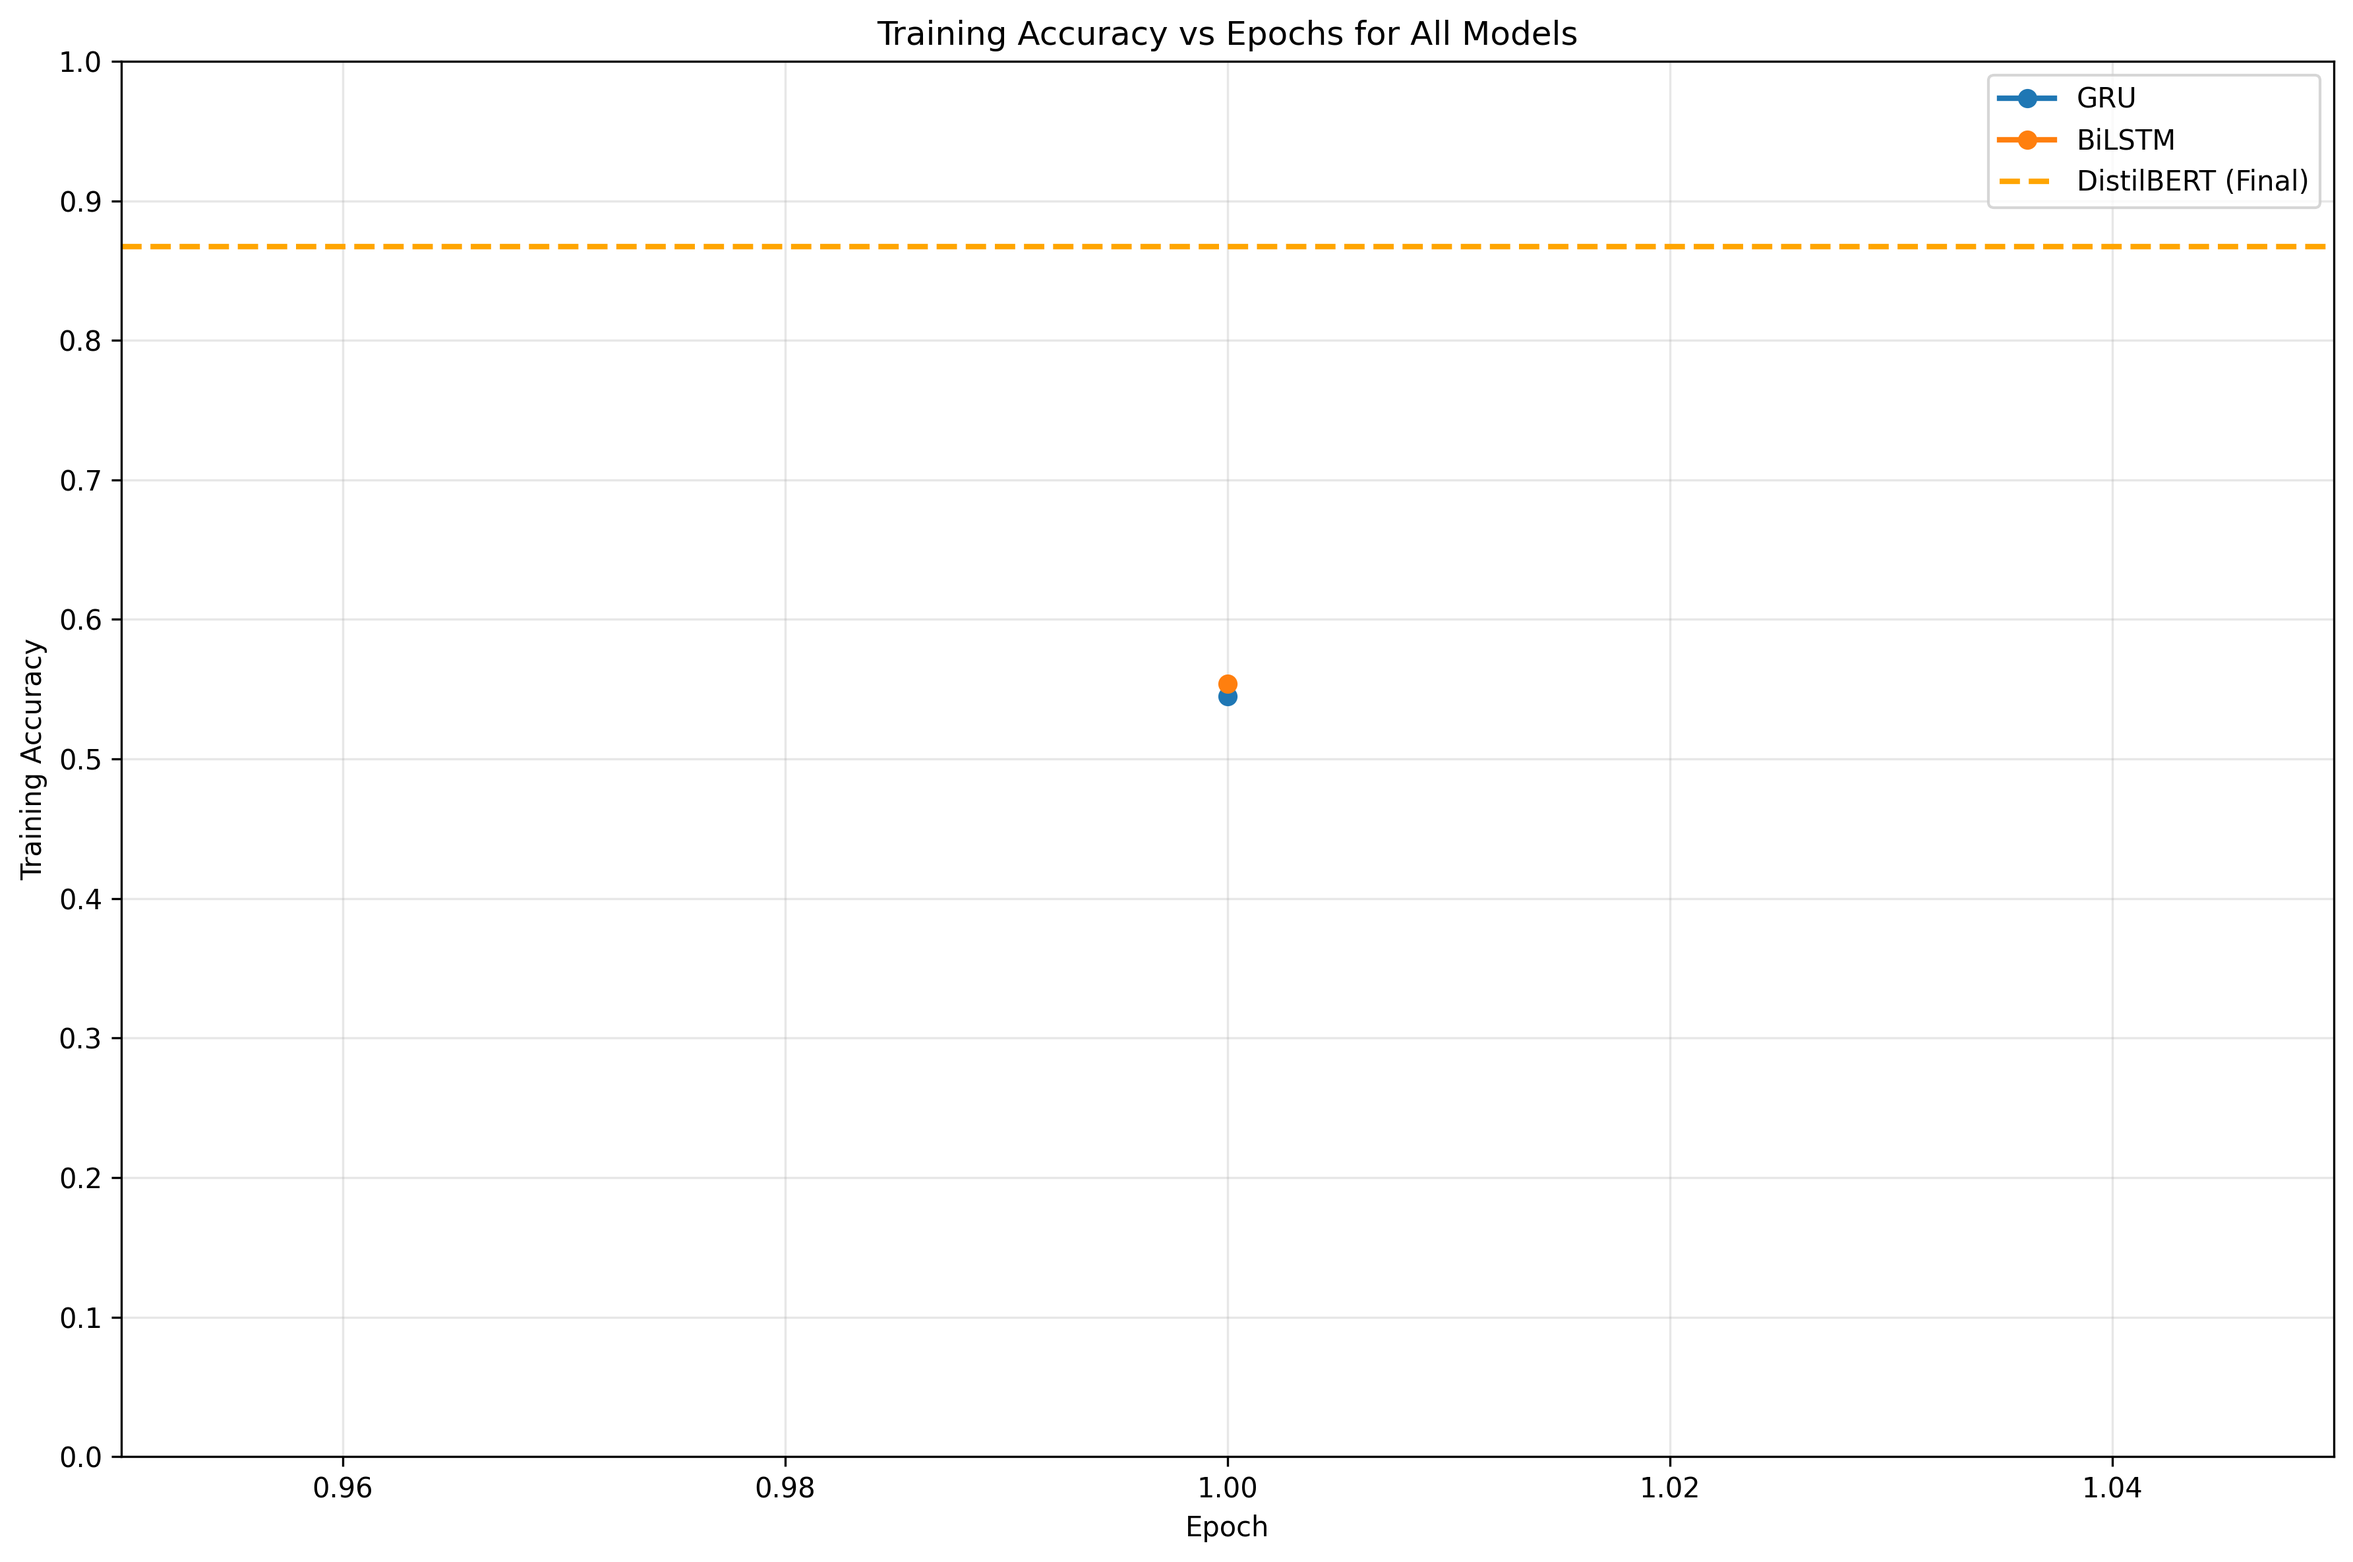
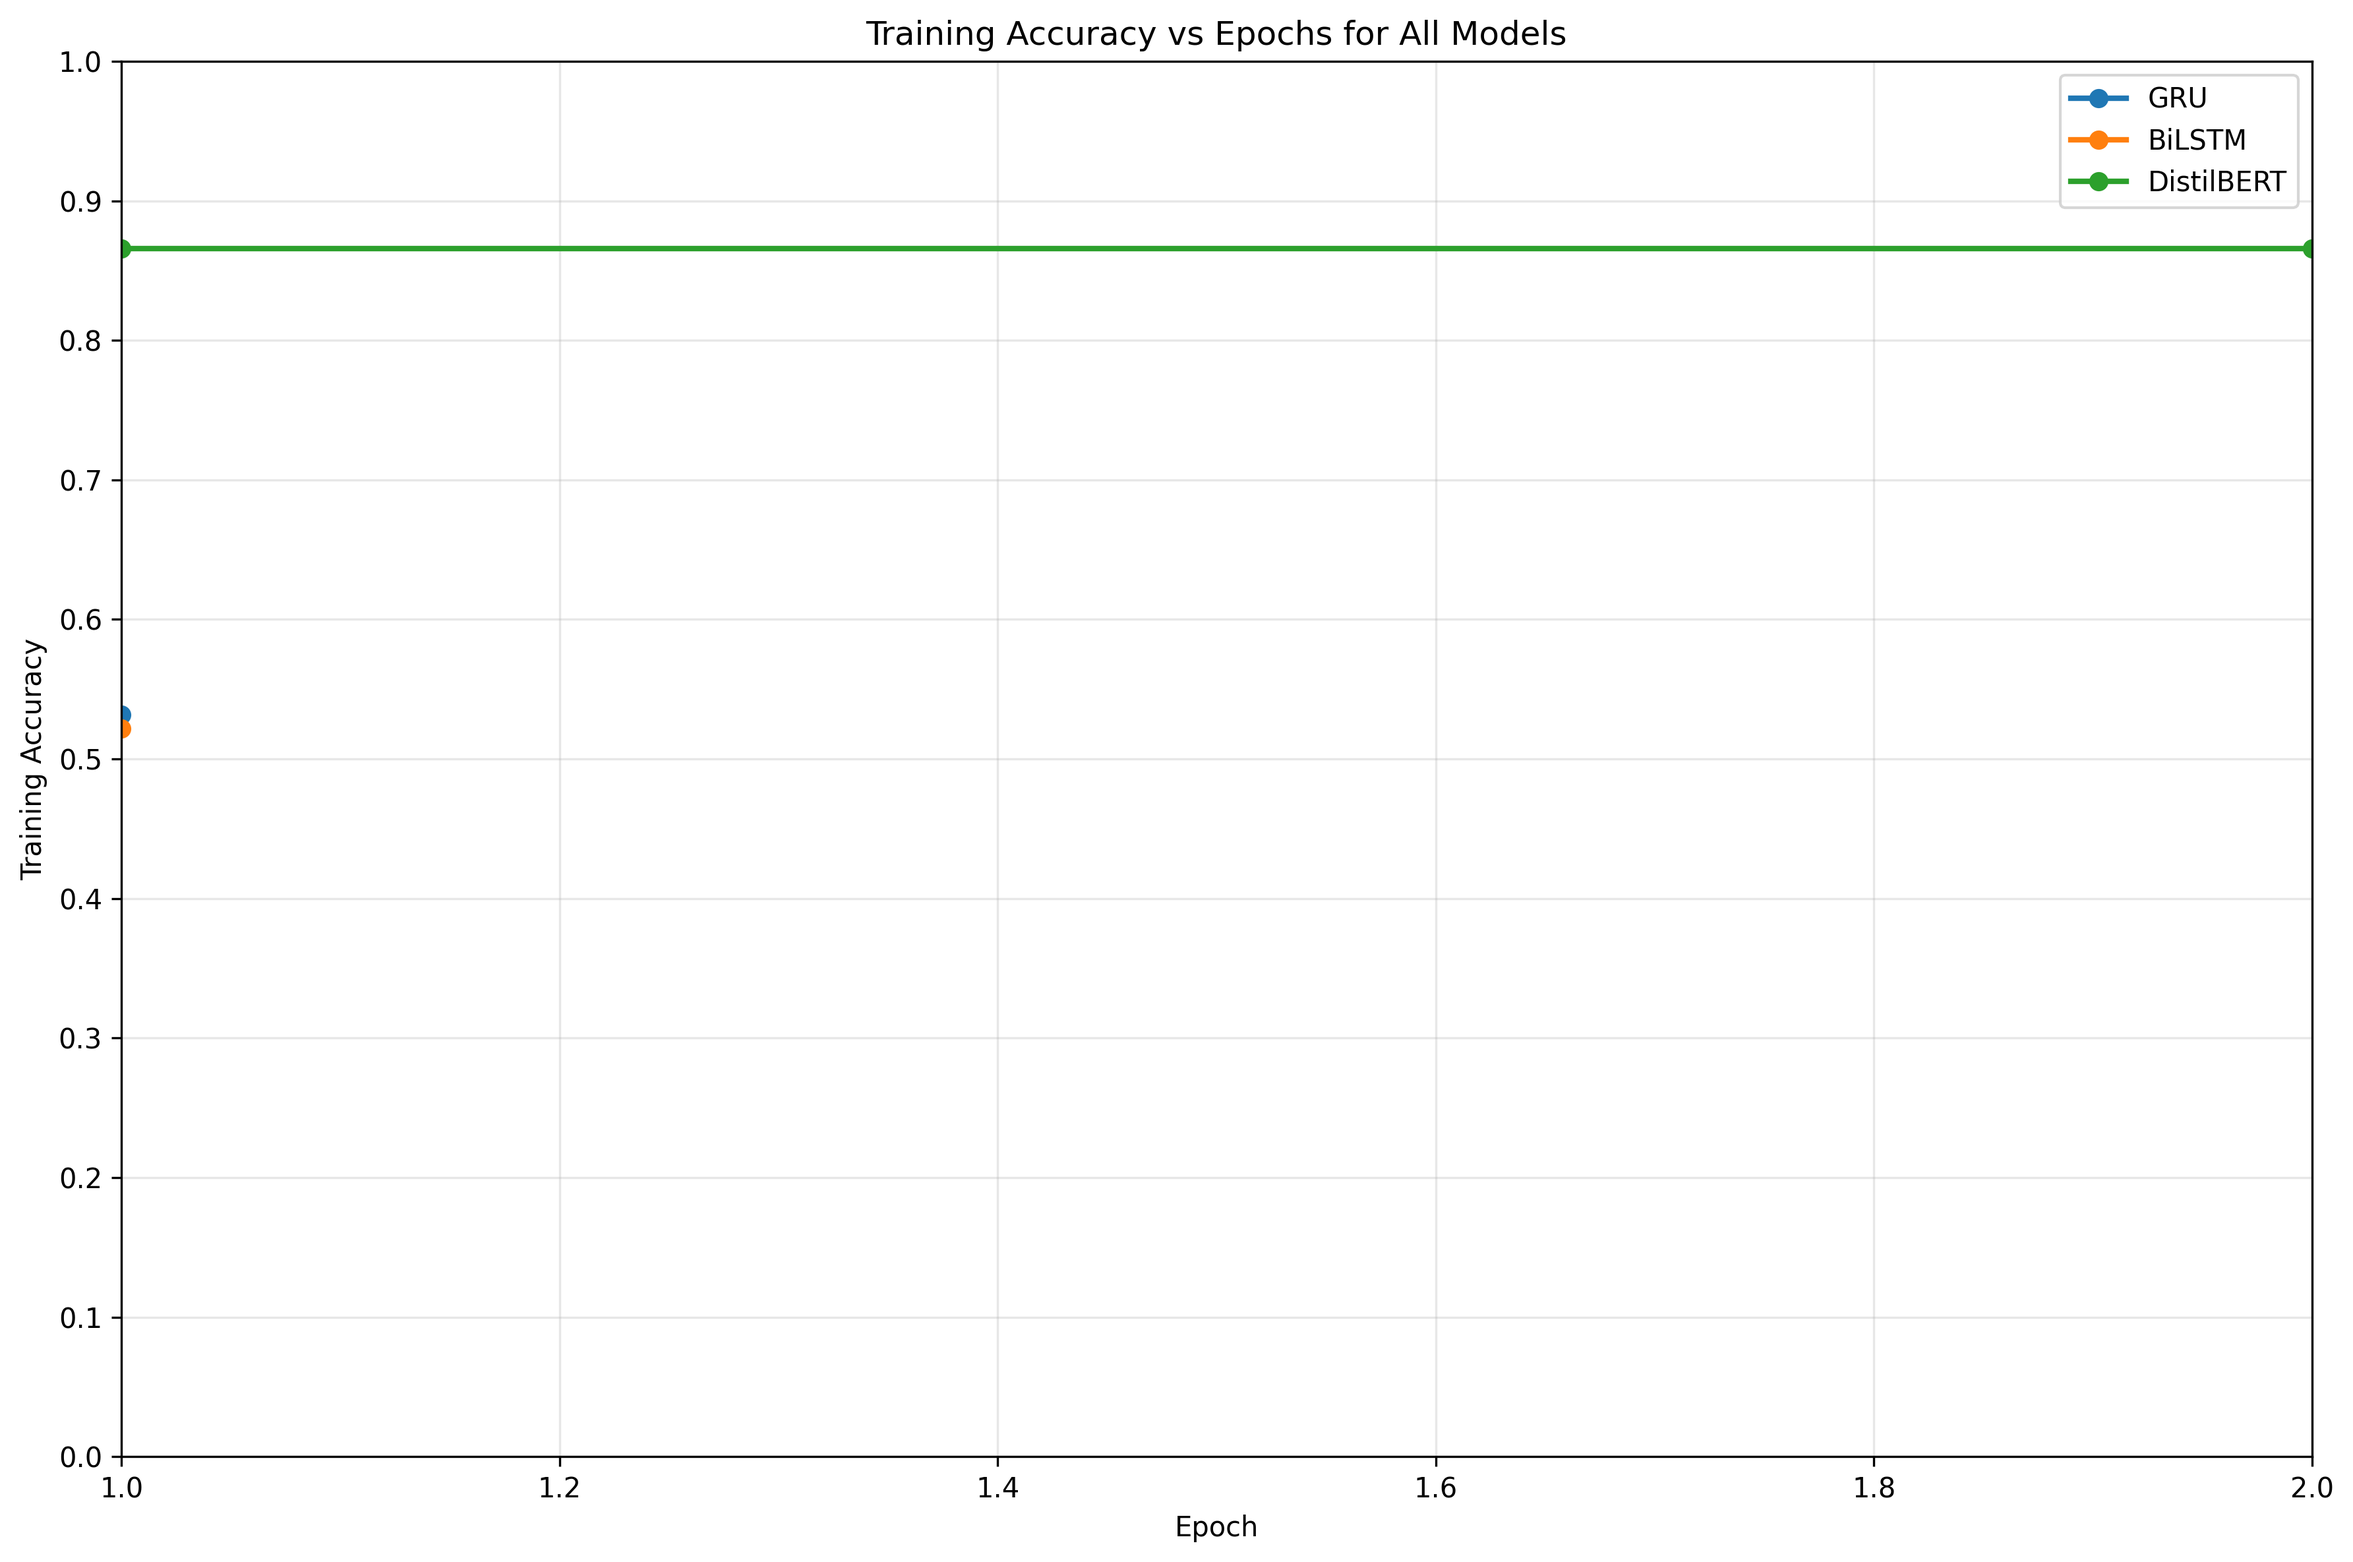
update

diff --git a/sentiment_model_comparison.py b/sentiment_model_comparison.py
@@ -27,7 +27,7 @@ def load_imdb_dataset():
     train_labels = [dataset["train"][i]["label"] for i in train_indices]
     test_texts = [dataset["test"][i]["text"] for i in test_indices]
     test_labels = [dataset["test"][i]["label"] for i in test_indices]
-    
+
     return train_texts, train_labels, test_texts, test_labels
 
 
@@ -101,7 +101,8 @@ class GRUClassifier(nn.Module):
     def __init__(self, vocab_size: int, embed_dim: int = 300, hidden_dim: int = 600):
         super().__init__()
         self.embedding = nn.Embedding(vocab_size, embed_dim, padding_idx=0)  # Word embedding layer
-        self.gru = nn.GRU(embed_dim, hidden_dim, num_layers=2, batch_first=True, dropout=0.3, bidirectional=True)  # Bidirectional GRU
+        self.gru = nn.GRU(embed_dim, hidden_dim, num_layers=2, batch_first=True, dropout=0.3,
+                          bidirectional=True)  # Bidirectional GRU
         self.dropout = nn.Dropout(0.5)  # Dropout for regularization
         self.fc1 = nn.Linear(hidden_dim * 2, 256)  # First fully connected layer
         self.fc2 = nn.Linear(256, 2)  # Output layer for binary classification
@@ -130,7 +131,8 @@ class BiLSTMClassifier(nn.Module):
     def __init__(self, vocab_size: int, embed_dim: int = 300, hidden_dim: int = 600):
         super().__init__()
         self.embedding = nn.Embedding(vocab_size, embed_dim, padding_idx=0)  # Word embedding layer
-        self.lstm = nn.LSTM(embed_dim, hidden_dim, num_layers=2, batch_first=True, dropout=0.3, bidirectional=True)  # Bidirectional LSTM
+        self.lstm = nn.LSTM(embed_dim, hidden_dim, num_layers=2, batch_first=True, dropout=0.3,
+                            bidirectional=True)  # Bidirectional LSTM
         self.dropout = nn.Dropout(0.5)  # Dropout for regularization
         self.fc1 = nn.Linear(hidden_dim * 2, 256)  # First fully connected layer
         self.fc2 = nn.Linear(256, 2)  # Output layer for binary classification
@@ -147,7 +149,7 @@ class BiLSTMClassifier(nn.Module):
         return self.fc2(h)  # Return logits for classification
 
 
-def train_rnn(model: nn.Module, train_loader: DataLoader, epochs: int = 6) -> list[float]:
+def train_rnn(model: nn.Module, train_loader: DataLoader, epochs: int = 1) -> list[float]:
     """
     Train RNN model for sentiment classification.
     Args:
@@ -165,7 +167,7 @@ def train_rnn(model: nn.Module, train_loader: DataLoader, epochs: int = 6) -> li
 
     model.train()
     epoch_accuracies = []
-    
+
     for epoch in range(epochs):
         total_loss = 0
         correct = 0
@@ -192,7 +194,7 @@ def train_rnn(model: nn.Module, train_loader: DataLoader, epochs: int = 6) -> li
         scheduler.step()  # Update learning rate
 
         print(f"Epoch {epoch + 1}, Loss: {avg_loss:.4f}, Train Acc: {train_acc:.4f}")
-    
+
     return epoch_accuracies
 
 
@@ -218,8 +220,8 @@ def eval_rnn(model: nn.Module, test_loader: DataLoader) -> float:
     return accuracy_score(labels, preds)
 
 
-def run_transformer(model_name: str, train_texts: list[str], train_labels: list[int], 
-                   test_texts: list[str], test_labels: list[int]) -> float:
+def run_transformer(model_name: str, train_texts: list[str], train_labels: list[int],
+                    test_texts: list[str], test_labels: list[int]) -> tuple[float, list[float]]:
     """
     Train and evaluate transformer model (DistilBERT) for sentiment classification.
     Args:
@@ -229,7 +231,7 @@ def run_transformer(model_name: str, train_texts: list[str], train_labels: list[
         test_texts (list): Test text data
         test_labels (list): Test labels
     Returns:
-        float: Accuracy score
+        tuple: Final accuracy score and list of training accuracies per epoch
     """
     transformer_tokenizer = AutoTokenizer.from_pretrained("distilbert-base-uncased")
     train_encodings = transformer_tokenizer(train_texts, padding=True, truncation=True, max_length=128)
@@ -248,16 +250,24 @@ def run_transformer(model_name: str, train_texts: list[str], train_labels: list[
 
     model = AutoModelForSequenceClassification.from_pretrained(model_name, num_labels=2)  # Load pretrained model
 
+    training_accuracies = []
+
     def compute_metrics(eval_pred):
         logits, labels = eval_pred  # Extract logits and labels
         preds = logits.argmax(axis=1)  # Get predicted class
-        return {"accuracy": accuracy_score(labels, preds)}
+        accuracy = accuracy_score(labels, preds)
+
+        # Store training accuracy for this epoch
+        if hasattr(trainer, 'state') and trainer.state.epoch is not None:
+            training_accuracies.append(accuracy)
+
+        return {"accuracy": accuracy}
 
     args = TrainingArguments(
         output_dir="./results",  # Output directory
         per_device_train_batch_size=8,  # Training batch size
         per_device_eval_batch_size=8,  # Evaluation batch size
-        num_train_epochs=6,  # Number of training epochs
+        num_train_epochs=1,  # Number of training epochs
         eval_strategy="epoch",  # Evaluate at each epoch
         save_strategy="no",  # Don't save checkpoints
         logging_steps=50,  # Log every 50 steps
@@ -274,34 +284,29 @@ def run_transformer(model_name: str, train_texts: list[str], train_labels: list[
 
     trainer.train()
     metrics = trainer.evaluate()
-    return metrics['eval_accuracy']
+    return metrics['eval_accuracy'], training_accuracies
 
 
 def save_epoch_accuracies(epoch_accuracies: dict, max_epochs: int) -> None:
     """Save epoch accuracy data to CSV file."""
     print("\nSaving epoch accuracy data...")
-    epoch_data = []
 
-    for epoch in range(max_epochs):
-        row = {'Epoch': epoch + 1}
-        for model_name in ['GRU', 'BiLSTM', 'DistilBERT']:
-            if model_name in epoch_accuracies:
-                if epoch < len(epoch_accuracies[model_name]):
-                    row[model_name] = epoch_accuracies[model_name][epoch]
-                else:
-                    row[model_name] = None
-            else:
-                # For DistilBERT, we don't have per-epoch training accuracy from the trainer
-                # so we'll use the final accuracy for all epochs or leave as None
-                row[model_name] = None
-        epoch_data.append(row)
+    # Create DataFrame with epoch numbers as index
+    df_epochs = pd.DataFrame({'Epoch': range(1, max_epochs + 1)})
 
-    df_epochs = pd.DataFrame(epoch_data)
+    # Add accuracy data for each model
+    for model_name in ['GRU', 'BiLSTM', 'DistilBERT']:
+        if model_name in epoch_accuracies:
+            # Pad with None if model has fewer epochs than max_epochs
+            accuracies = epoch_accuracies[model_name] + [None] * (max_epochs - len(epoch_accuracies[model_name]))
+            df_epochs[model_name] = accuracies
+
     df_epochs.to_csv("results/epoch_accuracies.csv", index=False)
     print("Saved results/epoch_accuracies.csv")
 
 
-def create_comprehensive_visualizations(results: dict, model_details: dict, epoch_accuracies: dict, max_epochs: int) -> None:
+def create_comprehensive_visualizations(results: dict, model_details: dict, epoch_accuracies: dict,
+                                        max_epochs: int) -> None:
     """Create comprehensive model comparison visualizations."""
     # Create detailed results DataFrame
     detailed_results = []
@@ -369,18 +374,10 @@ def create_epoch_accuracy_plot(epoch_accuracies: dict, results: dict, max_epochs
     print("Creating combined accuracy vs epochs plot...")
     plt.figure(figsize=(12, 8))
 
-    # Plot RNN models (GRU and BiLSTM)
-    for model_name in ['GRU', 'BiLSTM']:
+    for model_name in ['GRU', 'BiLSTM', 'DistilBERT']:
         if model_name in epoch_accuracies:
             epochs = range(1, len(epoch_accuracies[model_name]) + 1)
             plt.plot(epochs, epoch_accuracies[model_name], marker='o', linewidth=2, label=model_name)
-
-    # For DistilBERT, we'll create a simple line showing the final accuracy
-    # since we don't have per-epoch training accuracy from the trainer
-    if 'DistilBERT' in results:
-        final_acc = results['DistilBERT']
-        max_rnn_epochs = max(len(epoch_accuracies.get(name, [])) for name in ['GRU', 'BiLSTM'])
-        plt.axhline(y=final_acc, color='orange', linestyle='--', linewidth=2, label='DistilBERT (Final)')
 
     plt.xlabel('Epoch')
     plt.ylabel('Training Accuracy')
@@ -389,7 +386,7 @@ def create_epoch_accuracy_plot(epoch_accuracies: dict, results: dict, max_epochs
     plt.grid(True, alpha=0.3)
     plt.xlim(1, max_epochs)
     plt.ylim(0, 1)
-    plt.yticks([i/10 for i in range(11)])
+    plt.yticks([i / 10 for i in range(11)])
     plt.tight_layout()
     plt.savefig("results/accuracy_vs_epochs.png", bbox_inches="tight", dpi=300)
     plt.show()
@@ -413,7 +410,7 @@ def print_model_summary(model_details: dict) -> None:
 def main():
     """Main execution function."""
     print("Using device:", device)
-    
+
     # Step 1: Load and prepare data
     train_texts, train_labels, test_texts, test_labels = load_imdb_dataset()
     vocab = build_vocab(train_texts)
@@ -442,7 +439,7 @@ def main():
 
         # Measure training time
         start_time = time.time()
-        epoch_acc = train_rnn(model, train_loader, epochs=6)
+        epoch_acc = train_rnn(model, train_loader, epochs=1)
         training_time = time.time() - start_time
 
         # Evaluate model
@@ -469,7 +466,8 @@ def main():
     distilbert_params = sum(p.numel() for p in distilbert_model.parameters())
     distilbert_trainable_params = sum(p.numel() for p in distilbert_model.parameters() if p.requires_grad)
 
-    distilbert_acc = run_transformer("distilbert-base-uncased", train_texts, train_labels, test_texts, test_labels)
+    distilbert_acc, distilbert_epoch_acc = run_transformer("distilbert-base-uncased", train_texts, train_labels,
+                                                           test_texts, test_labels)
     distilbert_time = time.time() - start_time
 
     results["DistilBERT"] = distilbert_acc
@@ -479,6 +477,7 @@ def main():
         'total_params': distilbert_params,
         'trainable_params': distilbert_trainable_params
     }
+    epoch_accuracies["DistilBERT"] = distilbert_epoch_acc
 
     print(
         f"DistilBERT Accuracy: {distilbert_acc:.4f}, Training Time: {distilbert_time:.2f}s, Parameters: {distilbert_params:,}")
